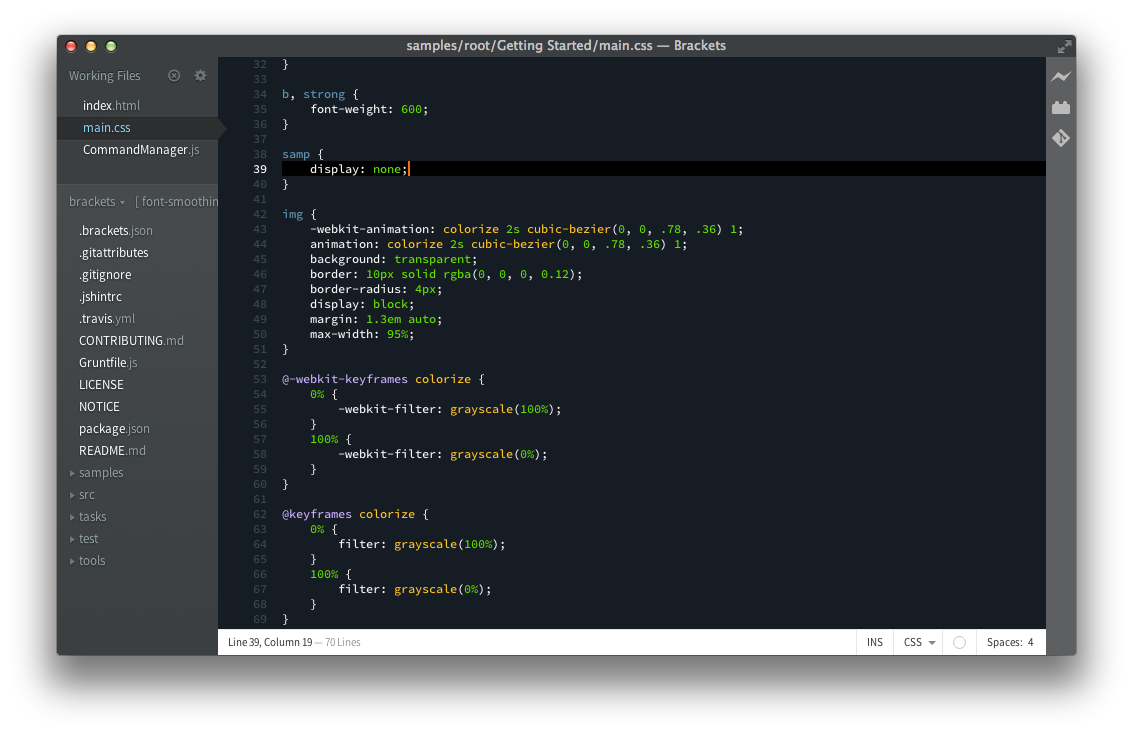
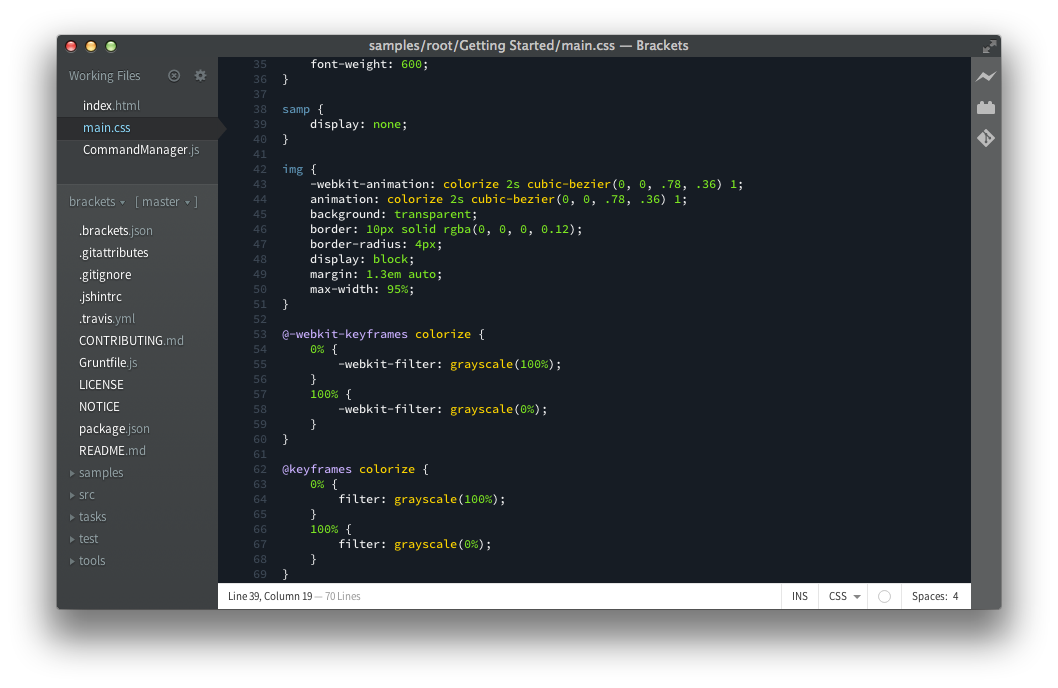
Various improvements.

Changed region(s): [[0.0312, 0.0305, 0.9669, 0.9157]]

diff --git a/photonracer.css b/photonracer.css
@@ -4,29 +4,29 @@ span.cm-attribute	{ color: #cab0ff; }
 span.cm-builtin     { color: #cab0ff; }
 span.cm-def			{ color: #cab0ff; }
 span.cm-header      { color: #cab0ff; }
-span.cm-keyword		{ color: #cab0ff; }
 span.cm-qualifier	{ color: #cab0ff; }
 
-span.cm-variable	{ color: #ffc429; }
-span.cm-variable-2	{ color: #ffc429; }
-span.cm-variable-3	{ color: #ffc429; }
+span.cm-variable	{ color: #ffd600; }
 
 span.cm-bracket		{ color: #6097b9; }
 span.cm-tag			{ color: #6097b9; }
 
-span.cm-atom		{ color: #6cd810; }
-span.cm-number		{ color: #6cd810; }
+span.cm-atom		{ color: #7ee923; }
+span.cm-number		{ color: #7ee923; }
 
-span.cm-link		{ color: #09cdf2; }
-span.cm-string		{ color: #09cdf2; }
-span.cm-string-2    { color: #09cdf2; }
+span.cm-link		{ color: #00d8ff; }
+span.cm-string		{ color: #00d8ff; }
+span.cm-string-2    { color: #00d8ff; }
 
-span.cm-meta		{ color: #f7f7f7; }
-span.cm-operator	{ color: #f7f7f7; }
-span.cm-property	{ color: #f7f7f7; } /* property after string */
+span.cm-meta		{ color: #f2f2f2; }
+span.cm-operator	{ color: #f2f2f2; }
+span.cm-property	{ color: #f2f2f2; } /* property after string */
+span.cm-variable-2	{ color: #f2f2f2; }
+span.cm-variable-3	{ color: #f2f2f2; }
 
 span.cm-comment		{ color: #46668d; }
-span.cm-error		{ color: #ff7fff; }
+span.cm-error		{ color: #ff64c1; }
+span.cm-keyword		{ color: #ffffff; font-weight: 700; }
 
 
 /* MISC ---------------------------------------------------------------------- */
@@ -34,7 +34,7 @@ span.cm-error		{ color: #ff7fff; }
 .CodeMirror,
 .CodeMirror .CodeMirror-scroll {
 	background: #161c24;
-	color: #f7f7f7;
+	color: #f2f2f2;
 }
 
 .CodeMirror-cursor {
@@ -56,13 +56,13 @@ span.cm-error		{ color: #ff7fff; }
 }
 
 .CodeMirror-selected {
-	background: #3e10bc !important;
+	background: #233d55 !important;
 }
 
 /* Active Line */
 
 .CodeMirror-focused .CodeMirror-activeline .CodeMirror-nonmatchingbracket {
-	color: #ff7fff !important;
+	color: #ff64c1 !important;
 }
 
 .CodeMirror-activeline-background {
@@ -87,6 +87,7 @@ span.cm-error		{ color: #ff7fff; }
 
 /* Searching */
 
+/*
 .CodeMirror-searching {
     background-color: #ffcd2d;
     color: #000 !important;
@@ -95,6 +96,7 @@ span.cm-error		{ color: #ff7fff; }
 .CodeMirror-searching.searching-current-match {
     background-color: #ff8500;
 }
+*/
 
 /* Non-editor styling */
 
@@ -104,5 +106,5 @@ span.cm-error		{ color: #ff7fff; }
 }
 
 #image-holder {
-    color: #f7f7f7;
+    color: #f2f2f2;
 }
